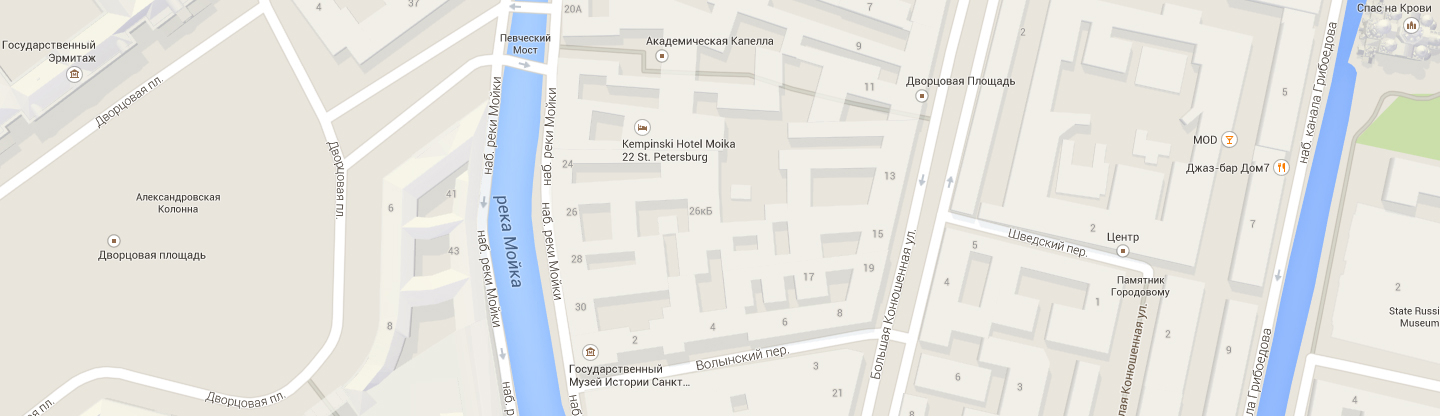
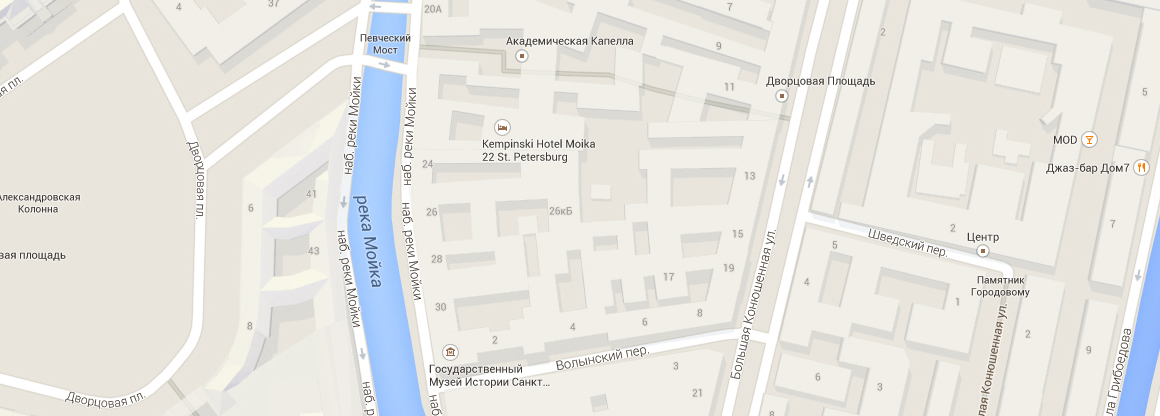
Завершаем вёрстку главной страницы

diff --git a/css/style.css b/css/style.css
@@ -125,7 +125,6 @@ img {
 }
 
 .page-body {
-  min-height: 100%;
   display: grid;
   grid-template-rows: min-content 1fr min-content;
   align-content: start;
@@ -535,6 +534,7 @@ img {
 
 .statistics::before {
   content: "";
+  position: relative;
   width: 360px;
   min-height: 208px;
   background-image: url("../img/nerds-illustration.png");
@@ -574,6 +574,7 @@ img {
 
 .statistics{
   display: flex;
+  flex-wrap: wrap;
   flex-direction: column;
   flex-basis: 360px;
   margin: 0 0 0 auto;
@@ -583,6 +584,7 @@ img {
 
 .statistics-list {
   display: flex;
+  flex-wrap: wrap;
   margin: 0 0 11px 0;
   padding: 0;
   list-style: none;
@@ -595,6 +597,7 @@ img {
 
 .statistics-desc {
   display: flex;
+  flex-wrap: wrap;
 }
 
 .statistics-desc-1 {
@@ -622,6 +625,7 @@ img {
   list-style: none;
 }
 
+
 .partner-link img {
   background-color: var(--basic-background-white);
   opacity: 0.2;
@@ -639,12 +643,12 @@ img {
 
 /* Partners border */
 .partners {
-  position: relative;
+  position: relative; /* позиция для горизонтальных серых бордеров */
 }
 
 .partners::after {
   content: "";
-  position: absolute;
+  position: absolute; /* верхний горизонтальный серый бордер */
   bottom: 150px;
   width: 1158px;
   border: 2px solid var(--basic-gray);
@@ -652,18 +656,18 @@ img {
 
 .partners::before {
   content: "";
-  position: absolute;
+  position: absolute; /* нижний горизонтальный серый бордер */
   top: 120px;
   width: 1158px;
   border: 2px solid var(--basic-gray);
 }
 .partners-item {
-  position: relative;
+  position: relative; /* позиция для вертикальных серых бордеров */
 }
 
 .partners-item::before {
   content: "";
-  position: absolute;
+  position: absolute; /* вертикальные серые бордеры */
   top: 5px;
   left: 250px;
   height: 52px;
@@ -678,19 +682,30 @@ img {
 
 /* ========== Index page - footer ========== */
 
-/* Map */
+/* Maps */
 
-.map-container {
-  width: 1440px;
-  padding: 0 20px;
-  margin: 0 auto;
-  position: relative; /* позиция для адреса и карты */
-}
-
-.map img {
-  width: 1440px;
+.map{
+  width: 1160px;
   height: 416px;
   margin: 0 auto;
+}
+
+.interactive-map-container {
+  width: 100%;
+  position: relative;
+}
+
+.interactive-map{
+  display: none;
+  width: 99.9%;
+  height: 416px;
+  position: absolute;
+  bottom: 7px;
+  z-index: 2;
+}
+
+.location {
+  position: relative; /* позиция для адреса и маркера */
 }
 
 /* marker */
@@ -698,28 +713,30 @@ img {
 .marker {
   content: "";
   position: absolute; /* маркер на карте */
-  top: 86px;
-  right: 407px;
+  bottom: 140px;
+  right: 266px;
+  z-index: 1;
 }
 
 /* Contacts */
 
 .contacts {
+  display: flex;
+  flex-wrap: wrap;
   content: "";
   position: absolute; /* контакты на карте */
   width: 319px;
   min-height: 308px;
-  padding: 49px 39px 47px 50px;
+  padding: 47px 39px 47px 48px;
   background-color: var(--basic-white);
   box-sizing: border-box;
-  top: 55px;
-  left: 160px;
+  bottom: 60px;
+  z-index: 2;
 }
 
 .contacts-title {
   padding: 0;
   margin: 0;
-  margin-bottom: 23px; /* отступ от заголовка к адресу */
   font-weight: 700;
   font-size: 18px;
   line-height: 30px;
@@ -730,12 +747,13 @@ img {
 .contacts-phone,
 .contacts-phone-number {
   line-height: 18px;
+  margin: 0;
   color: var(--basic-medium-gray);
 }
 
 .contacts-button {
-  margin-top: 37px; /* отступ между телефоном и ссылкой "Напишите нам" */
-  padding: 17px 44px 15px 44px;
+  margin-top: 30px; /* отступ между номером телефона и ссылкой "Напишите нам" */
+  padding: 17px 44px 0px 44px;
   background-color: var(--basic-red);
 }
 
@@ -747,21 +765,6 @@ img {
   background-color: var(--basic-dark-red);
   box-shadow: var(--basic-shadow-box);
 }
-
-
-.interactive-map-container {
-  width: 100%;
-  position: relative;
-}
-
-.interactive-map-container iframe {
-  display: none;
-  width: 100%;
-  height: 416px;
-  position: absolute;
-  bottom: 7px;
-}
-
 
 /* Modal-login form */
 
@@ -781,18 +784,19 @@ img {
 .modal {
   display: none;
   position: fixed;
-  top: 680px;
+  top: 0;
   right: 0;
   bottom: 180px;
   left: 0;
   margin: auto;
   color: var(--basic-black);
   width: 960px;
-	min-height: 590px;
+	height: 590px;
   background-image: url("../img/popup-write-to-us.jpg");
   box-shadow: var(--basic-popup-shadow);
   padding: 63px 99px 84px 100px;
   box-sizing: border-box;
+  z-index: 31; /* убирает просвечивание сквозь попап других элементов страницы */
 }
 
 .modal h2 {
@@ -861,12 +865,12 @@ img {
 
 .modal-close {
   position: absolute;
-  top: 87px;
-  right: 90px;
-  width: 21px;
-  height: 21px;
-  background-color: var(--basic-white);
+  top: 85px;
+  right: 85px;
+  width: 28px;
+  height: 28px;
   border: none;
+  background: none;
   cursor: pointer;
 }
 
@@ -874,22 +878,24 @@ img {
 .modal-close::after {
   content: "";
   position: absolute;
+  bottom: 12px;
   right: 1px;
   width: 21px;
-  height: 3px;
+  height: 2px;
+  border: 1px solid var(--basic-red);
   background-color: var(--basic-red);
+  border-radius: 2px;
+  box-shadow: var(--basic-drop-shadow);
   cursor: pointer;
   opacity: 0.3;
 }
 
 .modal-close::before {
   transform: rotate(45deg);
-  box-shadow: var(--basic-drop-shadow);
 }
 
 .modal-close::after {
   transform: rotate(-45deg);
-  box-shadow: var(--basic-drop-shadow);
 }
 
 .modal-close:hover::before,
@@ -915,6 +921,7 @@ img {
   display: flex;
   justify-content: flex-start;
   flex-wrap: wrap;
+  width: 261px;
   margin: 68px 0 68px 0;
   padding: 0;
   list-style: none;
@@ -931,6 +938,7 @@ img {
 
 .social-button {
   display: flex;
+  flex-wrap: wrap;
   align-items: center;
   justify-content: center;
   width: 81px;

diff --git a/index.html b/index.html
@@ -62,8 +62,8 @@
     </div>
   </header>
 
-  <main class="page-main">
-    <div class="page-main-wrapper container">
+  <main class="page-main  container">
+    <div class="page-main-wrapper">
       <section class="services">
         <h2 class="visually-hidden">Услуги</h2>
         <ul class="services-list">
@@ -160,13 +160,21 @@
     </div>
   </main>
 
-  <footer class="page-footer">
-    <div class="map-container">
-      <section class="map">
-        <h2 class="visually-hidden">Карта</h2>
-        <img src="img/map.jpg" width="1440" height="416" alt="карта с адресом nёrds">
-      </section>
 
+  <footer class="page-footer">
+
+    <section class="maps">
+      <h2 class="visually-hidden">Карта</h2>
+      <div class="container">
+        <img class="map" src="img/map.jpg" width="1160" height="416" alt="карта с адресом nёrds">
+      </div>
+
+      <div class="interactive-map-container">
+        <iframe class="interactive-map" src="https://www.google.com/maps/embed?pb=!1m18!1m12!1m3!1d1998.58095197757!2d30.319410323390894!3d59.93909537160517!2m3!1f0!2f0!3f0!3m2!1i1024!2i768!4f13.1!3m3!1m2!1s0x4696310fca145cc1%3A0x42b32648d8238007!2z0JHQvtC70YzRiNCw0Y8g0JrQvtC90Y7RiNC10L3QvdCw0Y8g0YPQuy4sIDE5LzgsINCh0LDQvdC60YIt0J_QtdGC0LXRgNCx0YPRgNCzLCAxOTExODY!5e0!3m2!1sru!2sru!4v1603140540112!5m2!1sru!2sru" width="1160" height="416" allowfullscreen title="Офис компании по адресу ул. Большая Конюшенная 19/8, Санкт-Петербург"></iframe>
+      </div>
+    </section>
+
+    <div class="location container">
       <section class="contacts">
         <h2 class="visually-hidden">Контактная информация</h2>
         <p class="contacts-title">Nёrds design studio</p>
@@ -176,18 +184,13 @@
         <p class="contacts-phone">тел.
           <a class="contacts-phone-number" href="tel:+78122757575">+7 (812) 275-75-75</a>
         </p>
-        <a class="button contacts-button" href="#">НАПИШИТЕ НАМ</a>
+        <a class="button contacts-button" href="#">Напишите нам</a>
       </section>
 
       <section class="marker">
         <h2 class="visually-hidden">маркер nёrd's на карте</h2>
         <img src="img/map-marker.png" width="231" height="190" alt="маркер nёrd's на карте">
       </section>
-    </div>
-
-
-    <div class="interactive-map-container">
-      <iframe src="https://www.google.com/maps/embed?pb=!1m18!1m12!1m3!1d1998.6037872533277!2d30.320858716096975!3d59.93871648187614!2m3!1f0!2f0!3f0!3m2!1i1024!2i768!4f13.1!3m3!1m2!1s0x4696310fca145cc1%3A0x42b32648d8238007!2z0JHQvtC70YzRiNCw0Y8g0JrQvtC90Y7RiNC10L3QvdCw0Y8g0YPQuy4sIDE5LzgsINCh0LDQvdC60YIt0J_QtdGC0LXRgNCx0YPRgNCzLCAxOTExODY!5e0!3m2!1sru!2sru!4v1603043776548!5m2!1sru!2sru" width="1440" height="416" allowfullscreen title="Офис компании по адресу ул. Большая Конюшенная 19/8, Санкт-Петербург"></iframe>
     </div>
 
     <div class="footer-wrapper container">
@@ -228,6 +231,9 @@
       </section>
     </div>
   </footer>
+
+
+
 
   <section class="modal">
     <h2>Напишите нам</h2>
